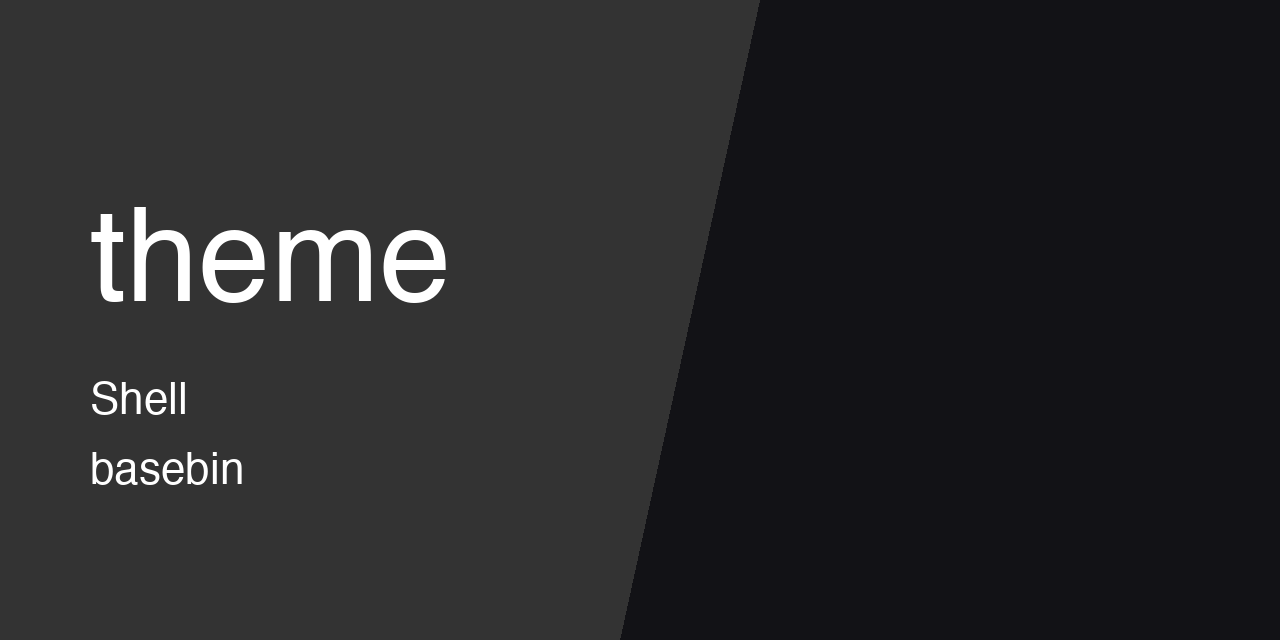
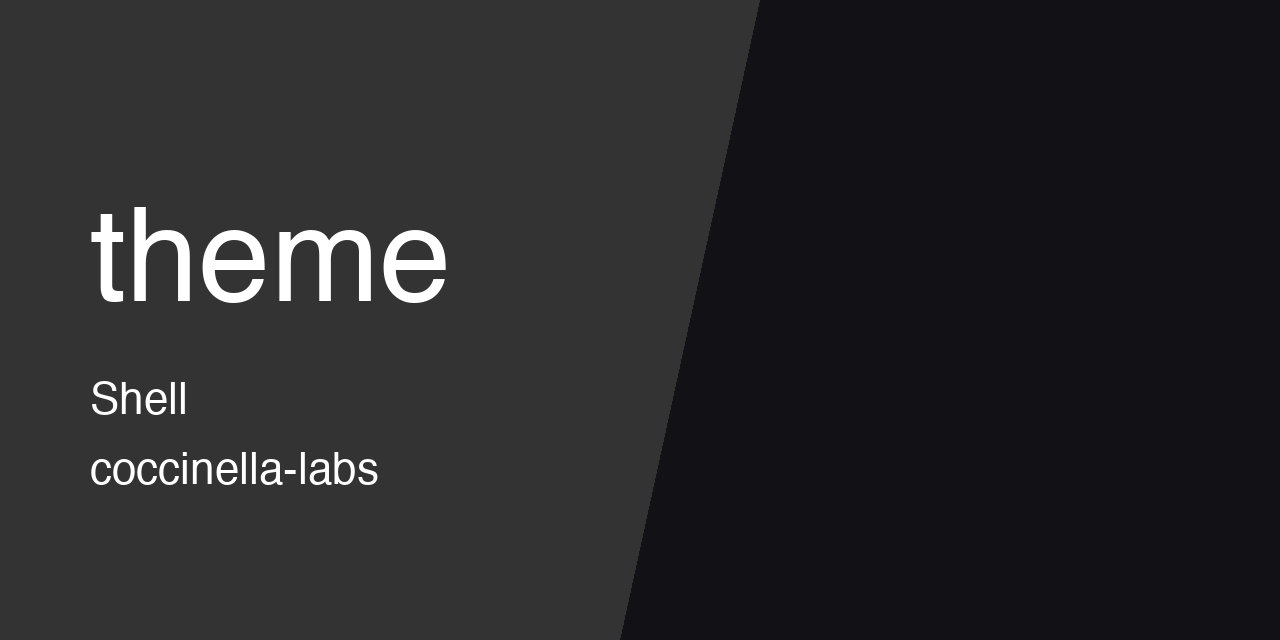
[docs] move thumbnail to coccinella-labs

Changed region(s): [[0.0625, 0.7188, 0.3125, 0.7812]]

diff --git a/README.md b/README.md
@@ -1,5 +1,5 @@
 <p align="center">
-  <img src="https://raw.githubusercontent.com/basebin/theme/main/.github/assets/thumbnail.png" alt="theme" width="100%">
+  <img src="https://raw.githubusercontent.com/Coccinella-Labs/theme/main/.github/assets/thumbnail.png" alt="theme" width="100%">
 </p>
 
 # Black Theme for VS Code
